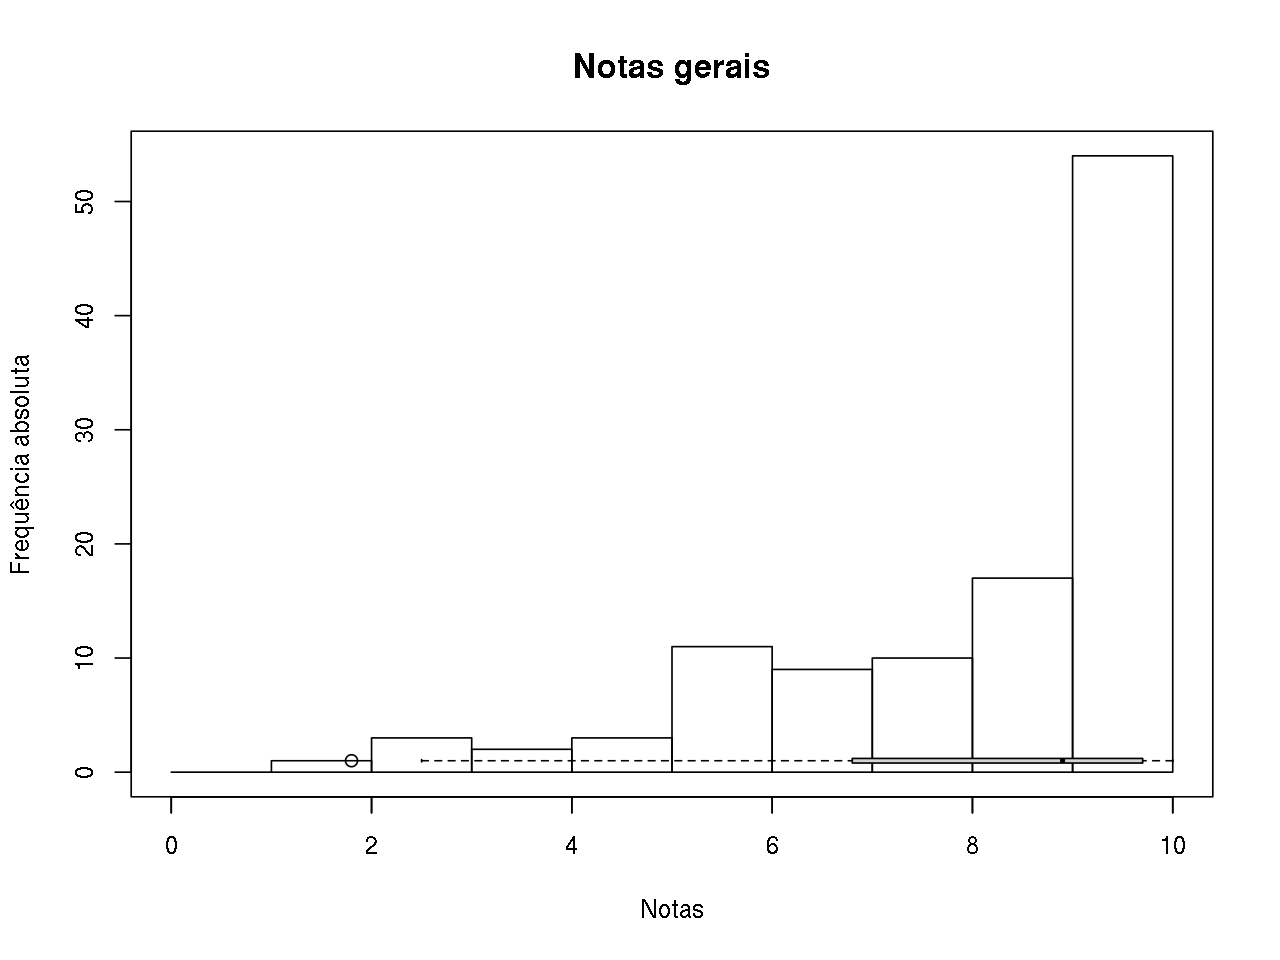
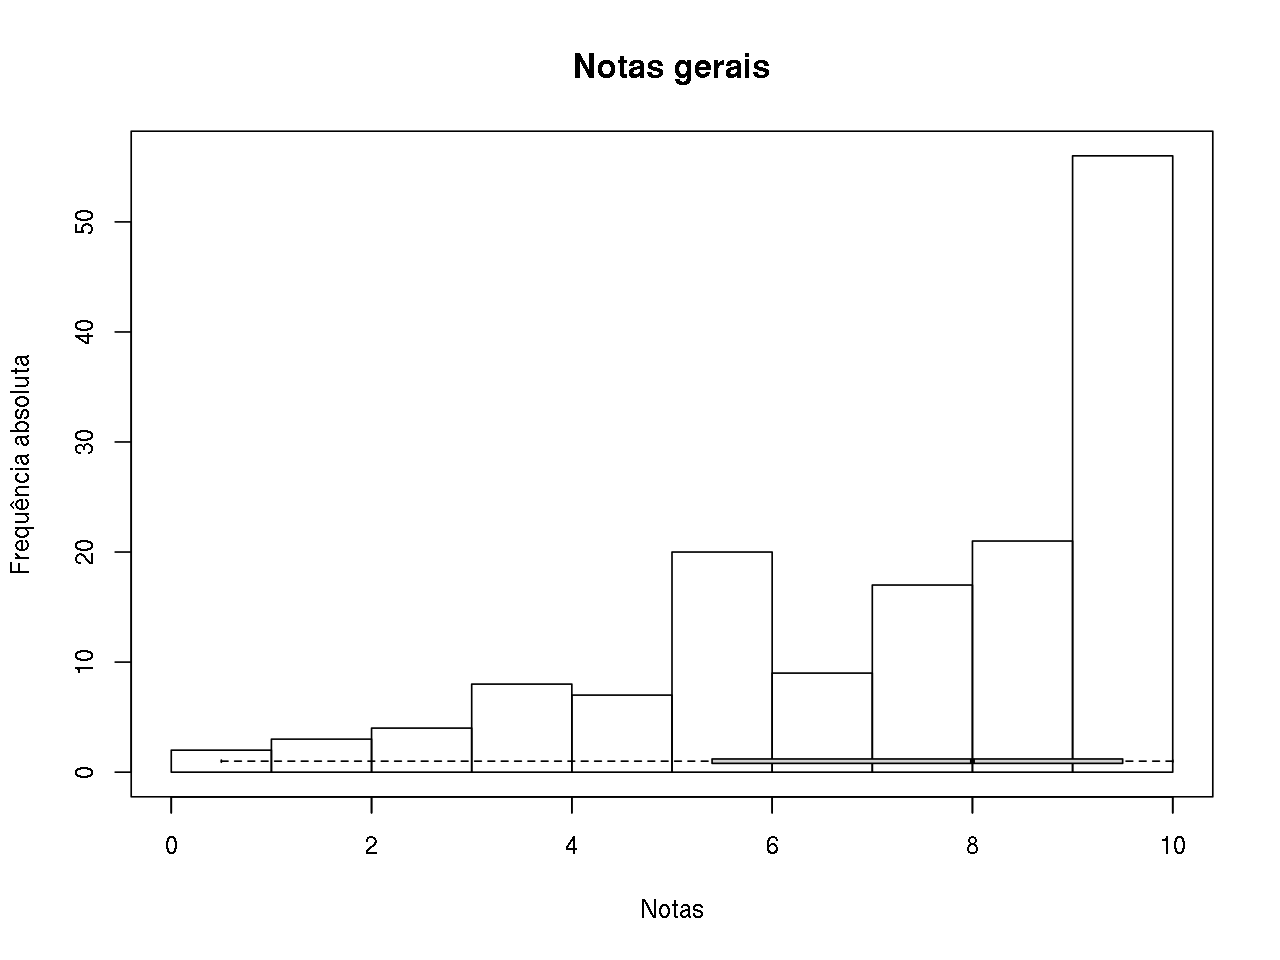
Results from S4

diff --git a/notas.html b/notas.html
@@ -291,7 +291,7 @@ boxplot(notas.all, horizontal = TRUE, ylim = c(0, 10),
 }
 round(statm(notas.all), 2)</code></pre>
 <pre><code>  Min    Q1    Q2    Q3   Max Média     s   NAs 
- 1.80  6.80  8.90  9.70 10.00  7.96  2.06 10.00 </code></pre>
+ 0.50  5.40  8.00  9.50 10.00  7.27  2.46 13.00 </code></pre>
 </div>
 <div id="resumos-por-prova" class="section level2">
 <h2>Resumos por prova</h2>
@@ -301,15 +301,15 @@ boxplot(notas[, notas.col], ylim = c(0, 10), ylab = &quot;Notas&quot;)</code></p
 <p><img src="figures/unnamed-chunk-4-1.png" width="640" style="display: block; margin: auto;" /></p>
 <p>Resumo dos cinco números, média, desvio-padrão, e número de provas não realizadas (NA):</p>
 <pre class="r"><code>round(apply(notas[, notas.col], 2, statm), 2)</code></pre>
-<pre><code>         S1    S2    S3
-Min    4.50  2.50  1.80
-Q1     8.50  5.90  5.75
-Q2     9.00  8.10  8.20
-Q3     9.50  9.80  9.90
-Max   10.00 10.00 10.00
-Média  8.74  7.44  7.70
-s      1.21  2.39  2.20
-NAs    3.00  3.00  4.00</code></pre>
+<pre><code>         S1    S2    S3   S4
+Min    4.50  2.50  1.80 0.50
+Q1     8.50  5.90  5.75 3.50
+Q2     9.00  8.10  8.20 5.00
+Q3     9.50  9.80  9.90 7.50
+Max   10.00 10.00 10.00 9.50
+Média  8.74  7.44  7.70 5.19
+s      1.21  2.39  2.20 2.41
+NAs    3.00  3.00  4.00 3.00</code></pre>
 </div>
 <div id="notas-individuais" class="section level2">
 <h2>Notas individuais</h2>
@@ -321,6 +321,7 @@ NAs    3.00  3.00  4.00</code></pre>
 <th align="center">S1</th>
 <th align="center">S2</th>
 <th align="center">S3</th>
+<th align="center">S4</th>
 </tr>
 </thead>
 <tbody>
@@ -329,99 +330,116 @@ NAs    3.00  3.00  4.00</code></pre>
 <td align="center">6.0</td>
 <td align="center">5.9</td>
 <td align="center">1.8</td>
+<td align="center">4.0</td>
 </tr>
 <tr class="even">
 <td align="center">20124652</td>
 <td align="center">NA</td>
 <td align="center">5.3</td>
 <td align="center">2.9</td>
+<td align="center">0.5</td>
 </tr>
 <tr class="odd">
 <td align="center">20136720</td>
 <td align="center">9.5</td>
 <td align="center">9.8</td>
 <td align="center">9.9</td>
+<td align="center">5.0</td>
 </tr>
 <tr class="even">
 <td align="center">20149073</td>
 <td align="center">8.0</td>
 <td align="center">7.0</td>
 <td align="center">8.0</td>
+<td align="center">3.0</td>
 </tr>
 <tr class="odd">
 <td align="center">20149110</td>
 <td align="center">7.3</td>
 <td align="center">8.1</td>
 <td align="center">7.0</td>
+<td align="center">5.5</td>
 </tr>
 <tr class="even">
 <td align="center">20149145</td>
 <td align="center">7.5</td>
 <td align="center">2.5</td>
 <td align="center">5.3</td>
+<td align="center">5.5</td>
 </tr>
 <tr class="odd">
 <td align="center">20150149</td>
 <td align="center">4.5</td>
 <td align="center">2.5</td>
 <td align="center">6.7</td>
+<td align="center">0.5</td>
 </tr>
 <tr class="even">
 <td align="center">20150417</td>
 <td align="center">9.0</td>
 <td align="center">10.0</td>
 <td align="center">10.0</td>
+<td align="center">8.0</td>
 </tr>
 <tr class="odd">
 <td align="center">20150452</td>
 <td align="center">8.7</td>
 <td align="center">3.0</td>
 <td align="center">5.5</td>
+<td align="center">5.0</td>
 </tr>
 <tr class="even">
 <td align="center">20150470</td>
 <td align="center">8.5</td>
 <td align="center">6.0</td>
 <td align="center">6.0</td>
+<td align="center">3.0</td>
 </tr>
 <tr class="odd">
 <td align="center">20150836</td>
 <td align="center">9.0</td>
 <td align="center">10.0</td>
 <td align="center">10.0</td>
+<td align="center">8.0</td>
 </tr>
 <tr class="even">
 <td align="center">20150978</td>
 <td align="center">9.8</td>
 <td align="center">9.8</td>
 <td align="center">10.0</td>
+<td align="center">7.5</td>
 </tr>
 <tr class="odd">
 <td align="center">20151292</td>
 <td align="center">9.5</td>
 <td align="center">7.0</td>
 <td align="center">8.9</td>
+<td align="center">1.5</td>
 </tr>
 <tr class="even">
 <td align="center">20151516</td>
 <td align="center">9.0</td>
 <td align="center">10.0</td>
 <td align="center">9.9</td>
+<td align="center">5.0</td>
 </tr>
 <tr class="odd">
 <td align="center">20152147</td>
 <td align="center">7.5</td>
 <td align="center">6.5</td>
 <td align="center">5.3</td>
+<td align="center">4.5</td>
 </tr>
 <tr class="even">
 <td align="center">20152591</td>
 <td align="center">9.0</td>
 <td align="center">9.5</td>
 <td align="center">8.4</td>
+<td align="center">7.5</td>
 </tr>
 <tr class="odd">
 <td align="center">20152736</td>
+<td align="center">NA</td>
 <td align="center">NA</td>
 <td align="center">NA</td>
 <td align="center">NA</td>
@@ -431,53 +449,62 @@ NAs    3.00  3.00  4.00</code></pre>
 <td align="center">NA</td>
 <td align="center">NA</td>
 <td align="center">NA</td>
+<td align="center">NA</td>
 </tr>
 <tr class="odd">
 <td align="center">20152988</td>
 <td align="center">8.5</td>
 <td align="center">9.8</td>
 <td align="center">7.0</td>
+<td align="center">7.5</td>
 </tr>
 <tr class="even">
 <td align="center">20153016</td>
 <td align="center">9.8</td>
 <td align="center">10.0</td>
 <td align="center">NA</td>
+<td align="center">8.5</td>
 </tr>
 <tr class="odd">
 <td align="center">20153599</td>
 <td align="center">9.5</td>
 <td align="center">4.8</td>
 <td align="center">5.0</td>
+<td align="center">3.5</td>
 </tr>
 <tr class="even">
 <td align="center">20153646</td>
 <td align="center">10.0</td>
 <td align="center">6.8</td>
 <td align="center">7.3</td>
+<td align="center">4.8</td>
 </tr>
 <tr class="odd">
 <td align="center">20154101</td>
 <td align="center">9.7</td>
 <td align="center">9.5</td>
 <td align="center">10.0</td>
+<td align="center">7.0</td>
 </tr>
 <tr class="even">
 <td align="center">20154112</td>
 <td align="center">8.5</td>
 <td align="center">4.0</td>
 <td align="center">7.5</td>
+<td align="center">3.5</td>
 </tr>
 <tr class="odd">
 <td align="center">20154179</td>
 <td align="center">9.5</td>
 <td align="center">9.5</td>
 <td align="center">9.9</td>
+<td align="center">7.0</td>
 </tr>
 <tr class="even">
 <td align="center">20154443</td>
 <td align="center">10.0</td>
 <td align="center">8.0</td>
+<td align="center">9.0</td>
 <td align="center">9.0</td>
 </tr>
 <tr class="odd">
@@ -485,76 +512,89 @@ NAs    3.00  3.00  4.00</code></pre>
 <td align="center">10.0</td>
 <td align="center">9.8</td>
 <td align="center">10.0</td>
+<td align="center">9.5</td>
 </tr>
 <tr class="even">
 <td align="center">20155156</td>
 <td align="center">6.0</td>
 <td align="center">5.5</td>
 <td align="center">8.9</td>
+<td align="center">5.0</td>
 </tr>
 <tr class="odd">
 <td align="center">20155208</td>
 <td align="center">9.0</td>
 <td align="center">3.5</td>
 <td align="center">9.0</td>
+<td align="center">2.5</td>
 </tr>
 <tr class="even">
 <td align="center">20156753</td>
 <td align="center">9.8</td>
 <td align="center">9.8</td>
 <td align="center">8.5</td>
+<td align="center">8.0</td>
 </tr>
 <tr class="odd">
 <td align="center">20157092</td>
 <td align="center">9.0</td>
 <td align="center">9.1</td>
 <td align="center">5.0</td>
+<td align="center">3.0</td>
 </tr>
 <tr class="even">
 <td align="center">20157880</td>
 <td align="center">9.5</td>
 <td align="center">5.0</td>
 <td align="center">9.8</td>
+<td align="center">5.0</td>
 </tr>
 <tr class="odd">
 <td align="center">20158399</td>
 <td align="center">9.0</td>
 <td align="center">6.8</td>
 <td align="center">9.0</td>
+<td align="center">3.5</td>
 </tr>
 <tr class="even">
 <td align="center">20159053</td>
 <td align="center">9.0</td>
 <td align="center">8.6</td>
 <td align="center">5.4</td>
+<td align="center">5.5</td>
 </tr>
 <tr class="odd">
 <td align="center">20159109</td>
 <td align="center">9.5</td>
 <td align="center">8.1</td>
 <td align="center">7.0</td>
+<td align="center">7.5</td>
 </tr>
 <tr class="even">
 <td align="center">20159160</td>
 <td align="center">9.0</td>
 <td align="center">10.0</td>
 <td align="center">10.0</td>
+<td align="center">7.5</td>
 </tr>
 <tr class="odd">
 <td align="center">20159633</td>
 <td align="center">9.0</td>
 <td align="center">8.1</td>
 <td align="center">8.0</td>
+<td align="center">4.3</td>
 </tr>
 <tr class="even">
 <td align="center">20159711</td>
 <td align="center">9.3</td>
 <td align="center">9.0</td>
 <td align="center">10.0</td>
+<td align="center">5.0</td>
 </tr>
 <tr class="odd">
 <td align="center">20159781</td>
 <td align="center">8.0</td>
+<td align="center">NA</td>
 <td align="center">NA</td>
 <td align="center">NA</td>
 </tr>
@@ -563,6 +603,7 @@ NAs    3.00  3.00  4.00</code></pre>
 <td align="center">9.0</td>
 <td align="center">6.6</td>
 <td align="center">5.4</td>
+<td align="center">1.0</td>
 </tr>
 </tbody>
 </table>

diff --git a/index.html b/index.html
@@ -268,8 +268,9 @@ $(document).ready(function () {
 
 
 <p><a href="https://travis-ci.org/fernandomayer/ce003fmi-2016-01"><img src="https://travis-ci.org/fernandomayer/ce003fmi-2016-01.svg" alt="Build Status" /></a></p>
-<!-- <div class="alert alert-danger" role="alert"> **ATENÇÃO!** Nesta -->
-<!-- quarta-feira (22/06) **não** haverá aula. </div> -->
+<div class="alert alert-danger" role="alert">
+<strong>ATENÇÃO!</strong> O exame final será dia 13/07 (quarta-feira) no horário normal de aula.
+</div>
 <div id="detalhes-da-oferta-da-disciplina" class="section level1">
 <h1>Detalhes da oferta da disciplina</h1>
 <ul>
